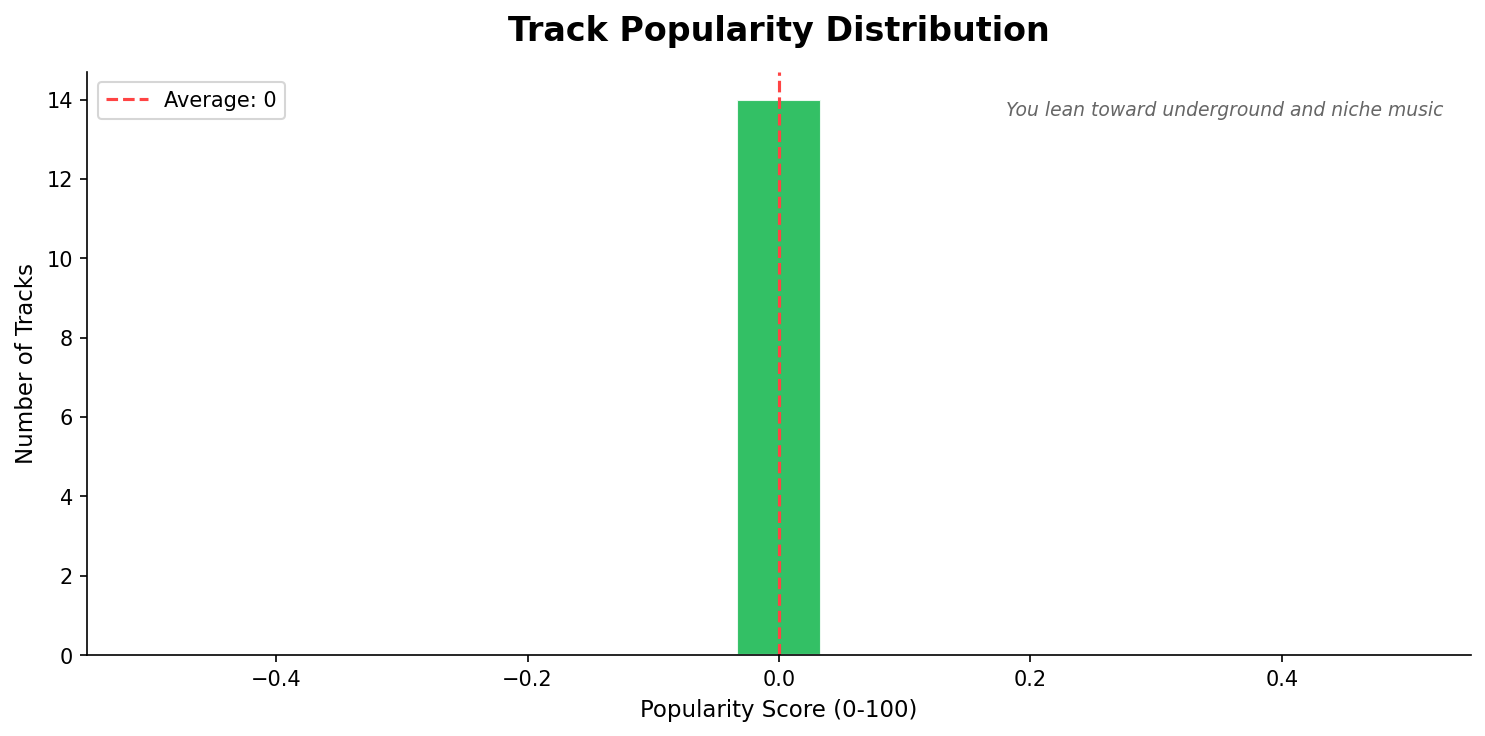
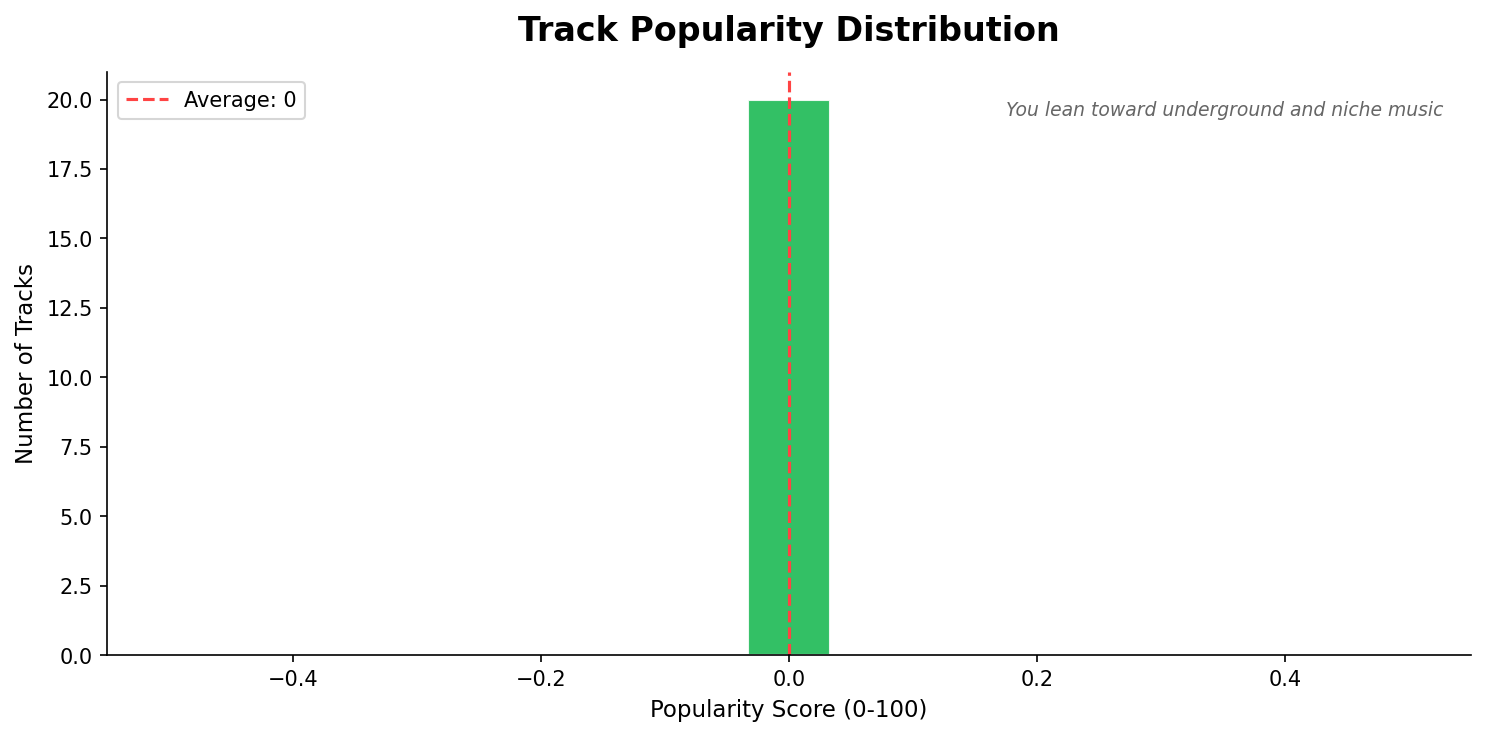
improved code flow

diff --git a/analyze.py b/analyze.py
@@ -6,73 +6,125 @@ from fetch_data import get_top_artists, get_top_tracks, get_recently_played
 
 os.makedirs("charts", exist_ok=True)
 
+plt.rcParams.update({
+    "figure.facecolor": "#0d0d0d",
+    "axes.facecolor": "#0d0d0d",
+    "axes.edgecolor": "#333333",
+    "axes.labelcolor": "#cccccc",
+    "xtick.color": "#888888",
+    "ytick.color": "#888888",
+    "text.color": "#cccccc",
+    "grid.color": "#1a1a1a",
+    "grid.linestyle": "--",
+    "font.family": "monospace",
+})
+
+SPOTIFY_GREEN = "#1DB954"
+ACCENT = "#ffffff"
+
 
 def plot_top_artists(df):
     if df is None or df.empty:
         print("  Top artists: no data yet.")
         return
 
-    fig, ax = plt.subplots(figsize=(12, 8))
-    df_plot = df.head(10).iloc[::-1]
+    df_plot = df.head(10).iloc[::-1].copy()
+    df_plot["score"] = range(1, len(df_plot) + 1)
 
-    colors = plt.cm.viridis(np.linspace(0.3, 0.9, len(df_plot)))
-    bars = ax.barh(df_plot["name"], df_plot["popularity"], color=colors, edgecolor="white")
+    n = len(df_plot)
+    fig_height = max(4, n * 0.6)
+    fig, ax = plt.subplots(figsize=(13, fig_height))
+    fig.patch.set_facecolor("#0d0d0d")
 
-    for bar in bars:
+    colors = [SPOTIFY_GREEN] * n
+    colors[-1] = "#ffffff"
+
+    bars = ax.barh(
+        df_plot["name"],
+        df_plot["score"],
+        color=colors,
+        edgecolor="none",
+        height=0.4,
+    )
+
+    for i, bar in enumerate(bars):
         width = bar.get_width()
-        ax.text(width + 0.5, bar.get_y() + bar.get_height() / 2,
-                f"{int(width)}", va="center", fontsize=9)
+        rank = n - i
+        ax.text(
+            width + 0.1,
+            bar.get_y() + bar.get_height() / 2,
+            f"#{rank}",
+            va="center",
+            fontsize=10,
+            color="#888888",
+        )
 
-    ax.set_xlabel("Popularity Score (0-100)", fontsize=11)
-    ax.set_title("Your Top 10 Artists", fontsize=16, fontweight="bold", pad=15)
-    ax.set_xlim(0, 108)
+    ax.set_title("Your Top Artists", fontsize=20, fontweight="bold",
+                 color=ACCENT, pad=20)
+    ax.set_xlim(0, 13)
+    ax.xaxis.set_visible(False)
     ax.spines["top"].set_visible(False)
     ax.spines["right"].set_visible(False)
+    ax.spines["bottom"].set_visible(False)
+    ax.tick_params(axis="y", labelsize=12)
+
     plt.tight_layout()
-    plt.savefig("charts/top_artists.png", dpi=150, bbox_inches="tight")
+    plt.savefig("charts/top_artists.png", dpi=150,
+                bbox_inches="tight", facecolor="#0d0d0d")
     print("  Saved: charts/top_artists.png")
     plt.show()
 
 
-def plot_genre_distribution(df):
+def plot_top_tracks(df):
     if df is None or df.empty:
-        print("  Genre distribution: no data yet.")
+        print("  Top tracks: no data yet.")
         return
 
-    all_genres = []
-    for genres_str in df["genres"]:
-        if genres_str and genres_str != "N/A":
-            for genre in genres_str.split(", "):
-                all_genres.append(genre.strip())
+    df_plot = df.head(10).iloc[::-1].copy()
+    df_plot["score"] = range(1, len(df_plot) + 1)
+    df_plot["label"] = df_plot["name"] + "  —  " + df_plot["artist"]
 
-    if not all_genres:
-        print("  Genre distribution: no genre data found.")
-        return
+    n = len(df_plot)
+    fig_height = max(4, n * 0.7)
+    fig, ax = plt.subplots(figsize=(13, fig_height))
+    fig.patch.set_facecolor("#0d0d0d")
 
-    genre_counts = pd.Series(all_genres).value_counts().head(8)
+    colors = [SPOTIFY_GREEN] * n
+    colors[-1] = "#ffffff"
 
-    fig, ax = plt.subplots(figsize=(9, 9))
-    colors = plt.cm.Set3(np.linspace(0, 1, len(genre_counts)))
-
-    wedges, texts, autotexts = ax.pie(
-        genre_counts.values,
-        labels=genre_counts.index,
-        autopct="%1.1f%%",
-        colors=colors,
-        startangle=90,
-        pctdistance=0.82,
+    bars = ax.barh(
+        df_plot["label"],
+        df_plot["score"],
+        color=colors,
+        edgecolor="none",
+        height=0.4,
     )
 
-    for text in texts:
-        text.set_fontsize(11)
-    for autotext in autotexts:
-        autotext.set_fontsize(9)
-        autotext.set_fontweight("bold")
+    for i, bar in enumerate(bars):
+        width = bar.get_width()
+        rank = n - i
+        ax.text(
+            width + 0.1,
+            bar.get_y() + bar.get_height() / 2,
+            f"#{rank}",
+            va="center",
+            fontsize=10,
+            color="#888888",
+        )
 
-    ax.set_title("Your Genre Distribution", fontsize=16, fontweight="bold", pad=20)
+    ax.set_title("Your Top Tracks", fontsize=20, fontweight="bold",
+                 color=ACCENT, pad=20)
+    ax.set_xlim(0, 13)
+    ax.xaxis.set_visible(False)
+    ax.spines["top"].set_visible(False)
+    ax.spines["right"].set_visible(False)
+    ax.spines["bottom"].set_visible(False)
+    ax.tick_params(axis="y", labelsize=10)
+
     plt.tight_layout()
-    plt.savefig("charts/genre_distribution.png", dpi=150, bbox_inches="tight")
-    print("  Saved: charts/genre_distribution.png")
+    plt.savefig("charts/top_tracks.png", dpi=150,
+                bbox_inches="tight", facecolor="#0d0d0d")
+    print("  Saved: charts/top_tracks.png")
     plt.show()
 
 
@@ -82,56 +134,116 @@ def plot_listening_hours(df):
         return
 
     df = df.copy()
-    df["hour"] = pd.to_datetime(df["played_at"]).dt.hour
+    df["hour"] = pd.to_datetime(
+        df["played_at"], format="%b %d  %I:%M %p", errors="coerce"
+    ).dt.hour
+
+    if df["hour"].isna().all():
+        df["hour"] = pd.to_datetime(
+            df["played_at"], utc=True
+        ).dt.tz_convert("America/New_York").dt.hour
+
     hour_counts = df["hour"].value_counts().reindex(range(24), fill_value=0)
 
-    fig, ax = plt.subplots(figsize=(13, 5))
-    colors = ["#1DB954" if hour_counts[h] > 0 else "#e0e0e0" for h in range(24)]
-    ax.bar(range(24), hour_counts.values, color=colors, edgecolor="white")
+    fig, ax = plt.subplots(figsize=(14, 6))
+    fig.patch.set_facecolor("#0d0d0d")
+
+    colors = [SPOTIFY_GREEN if hour_counts[h] > 0 else "#1a1a1a" for h in range(24)]
+    bars = ax.bar(range(24), hour_counts.values, color=colors, edgecolor="none", width=0.7)
+
+    for bar in bars:
+        if bar.get_height() > 0:
+            ax.text(
+                bar.get_x() + bar.get_width() / 2,
+                bar.get_height() + 0.2,
+                str(int(bar.get_height())),
+                ha="center", va="bottom",
+                fontsize=9, color="#888888",
+            )
+
+    time_labels = []
+    for h in range(24):
+        if h == 0:
+            time_labels.append("12 AM")
+        elif h < 12:
+            time_labels.append(f"{h} AM")
+        elif h == 12:
+            time_labels.append("12 PM")
+        else:
+            time_labels.append(f"{h - 12} PM")
 
     ax.set_xticks(range(24))
-    ax.set_xticklabels([f"{h}:00" for h in range(24)], rotation=45, ha="right", fontsize=9)
-    ax.set_ylabel("Tracks Played", fontsize=11)
-    ax.set_title("When Do You Listen to Music?", fontsize=16, fontweight="bold", pad=15)
+    ax.set_xticklabels(time_labels, rotation=45, ha="right", fontsize=9)
+    ax.set_ylabel("Tracks Played", fontsize=11, labelpad=10)
+    ax.set_title("When Do You Listen to Music?", fontsize=20,
+                 fontweight="bold", color=ACCENT, pad=20)
     ax.spines["top"].set_visible(False)
     ax.spines["right"].set_visible(False)
+    ax.set_axisbelow(True)
+    ax.yaxis.grid(True)
+
+    peak_hour = hour_counts.idxmax()
+    peak_label = time_labels[peak_hour]
+    ax.text(0.75, 0.95, f"Peak: {peak_label}",
+            transform=ax.transAxes, fontsize=10,
+            ha="right", va="top", color=SPOTIFY_GREEN)
+
     plt.tight_layout()
-    plt.savefig("charts/listening_hours.png", dpi=150, bbox_inches="tight")
+    plt.savefig("charts/listening_hours.png", dpi=150,
+                bbox_inches="tight", facecolor="#0d0d0d")
     print("  Saved: charts/listening_hours.png")
     plt.show()
 
 
-def plot_popularity_distribution(df):
+def plot_most_played_artists(df):
     if df is None or df.empty:
-        print("  Popularity distribution: no data yet.")
+        print("  Most played artists: no data yet.")
         return
 
-    fig, ax = plt.subplots(figsize=(10, 5))
-    ax.hist(df["popularity"], bins=15, color="#1DB954", edgecolor="white", alpha=0.9)
-    ax.axvline(df["popularity"].mean(), color="#ff4444", linestyle="--", linewidth=1.5,
-               label=f"Average: {df['popularity'].mean():.0f}")
+    artist_counts = (
+        df["artist"]
+        .str.split(",")
+        .str[0]
+        .str.strip()
+        .value_counts()
+        .head(8)
+    )
 
-    ax.set_xlabel("Popularity Score (0-100)", fontsize=11)
-    ax.set_ylabel("Number of Tracks", fontsize=11)
-    ax.set_title("Track Popularity Distribution", fontsize=16, fontweight="bold", pad=15)
-    ax.legend(fontsize=10)
+    n = len(artist_counts)
+    fig_height = max(4, n * 0.7)
+    fig, ax = plt.subplots(figsize=(13, fig_height))
+    fig.patch.set_facecolor("#0d0d0d")
+
+    colors = plt.cm.RdYlGn(np.linspace(0.3, 0.85, n))[::-1]
+    bars = ax.barh(
+        artist_counts.index[::-1],
+        artist_counts.values[::-1],
+        color=colors[::-1],
+        edgecolor="none",
+        height=0.4,
+    )
+
+    for bar in bars:
+        width = bar.get_width()
+        ax.text(
+            width + 0.1,
+            bar.get_y() + bar.get_height() / 2,
+            f"{int(width)} plays",
+            va="center", fontsize=10, color="#888888",
+        )
+
+    ax.set_title("Most Played Artists Recently", fontsize=20,
+                 fontweight="bold", color=ACCENT, pad=20)
     ax.spines["top"].set_visible(False)
     ax.spines["right"].set_visible(False)
-
-    avg = df["popularity"].mean()
-    if avg > 70:
-        taste = "You listen to mostly mainstream music"
-    elif avg > 45:
-        taste = "Your taste is a mix of mainstream and underground"
-    else:
-        taste = "You lean toward underground and niche music"
-
-    ax.text(0.98, 0.95, taste, transform=ax.transAxes,
-            fontsize=9, ha="right", va="top", color="#666666", style="italic")
+    ax.spines["bottom"].set_visible(False)
+    ax.xaxis.set_visible(False)
+    ax.tick_params(axis="y", labelsize=12)
 
     plt.tight_layout()
-    plt.savefig("charts/popularity_distribution.png", dpi=150, bbox_inches="tight")
-    print("  Saved: charts/popularity_distribution.png")
+    plt.savefig("charts/most_played_artists.png", dpi=150,
+                bbox_inches="tight", facecolor="#0d0d0d")
+    print("  Saved: charts/most_played_artists.png")
     plt.show()
 
 
@@ -150,9 +262,9 @@ if __name__ == "__main__":
     print()
 
     plot_top_artists(top_artists)
-    plot_genre_distribution(top_artists)
+    plot_top_tracks(top_tracks)
     plot_listening_hours(recently_played)
-    plot_popularity_distribution(top_tracks)
+    plot_most_played_artists(recently_played)
 
     print()
     print("  Done. Charts saved to /charts")

diff --git a/main.py b/main.py
@@ -1,5 +1,30 @@
+from fetch_data import get_user_profile, get_top_artists, get_top_tracks, get_recently_played
+from analyze import plot_top_artists, plot_top_tracks, plot_listening_hours, plot_most_played_artists
+
+
 def main():
-    print("Hello from spotify-listening-analytics!")
+    print()
+    print("  SPOTIFY LISTENING PROFILE DASHBOARD")
+    print("  ====================================")
+
+    # Step 1: Fetch all data
+    get_user_profile()
+    top_artists = get_top_artists("short_term", 20)
+    top_tracks = get_top_tracks("short_term", 20)
+    recently_played = get_recently_played(50)
+
+    # Step 2: Generate charts
+    print()
+    print("  Generating charts...")
+    print()
+
+    plot_top_artists(top_artists)
+    plot_top_tracks(top_tracks)
+    plot_listening_hours(recently_played)
+    plot_most_played_artists(recently_played)
+
+    print()
+    print("  Done. Charts saved to /charts")
 
 
 if __name__ == "__main__":